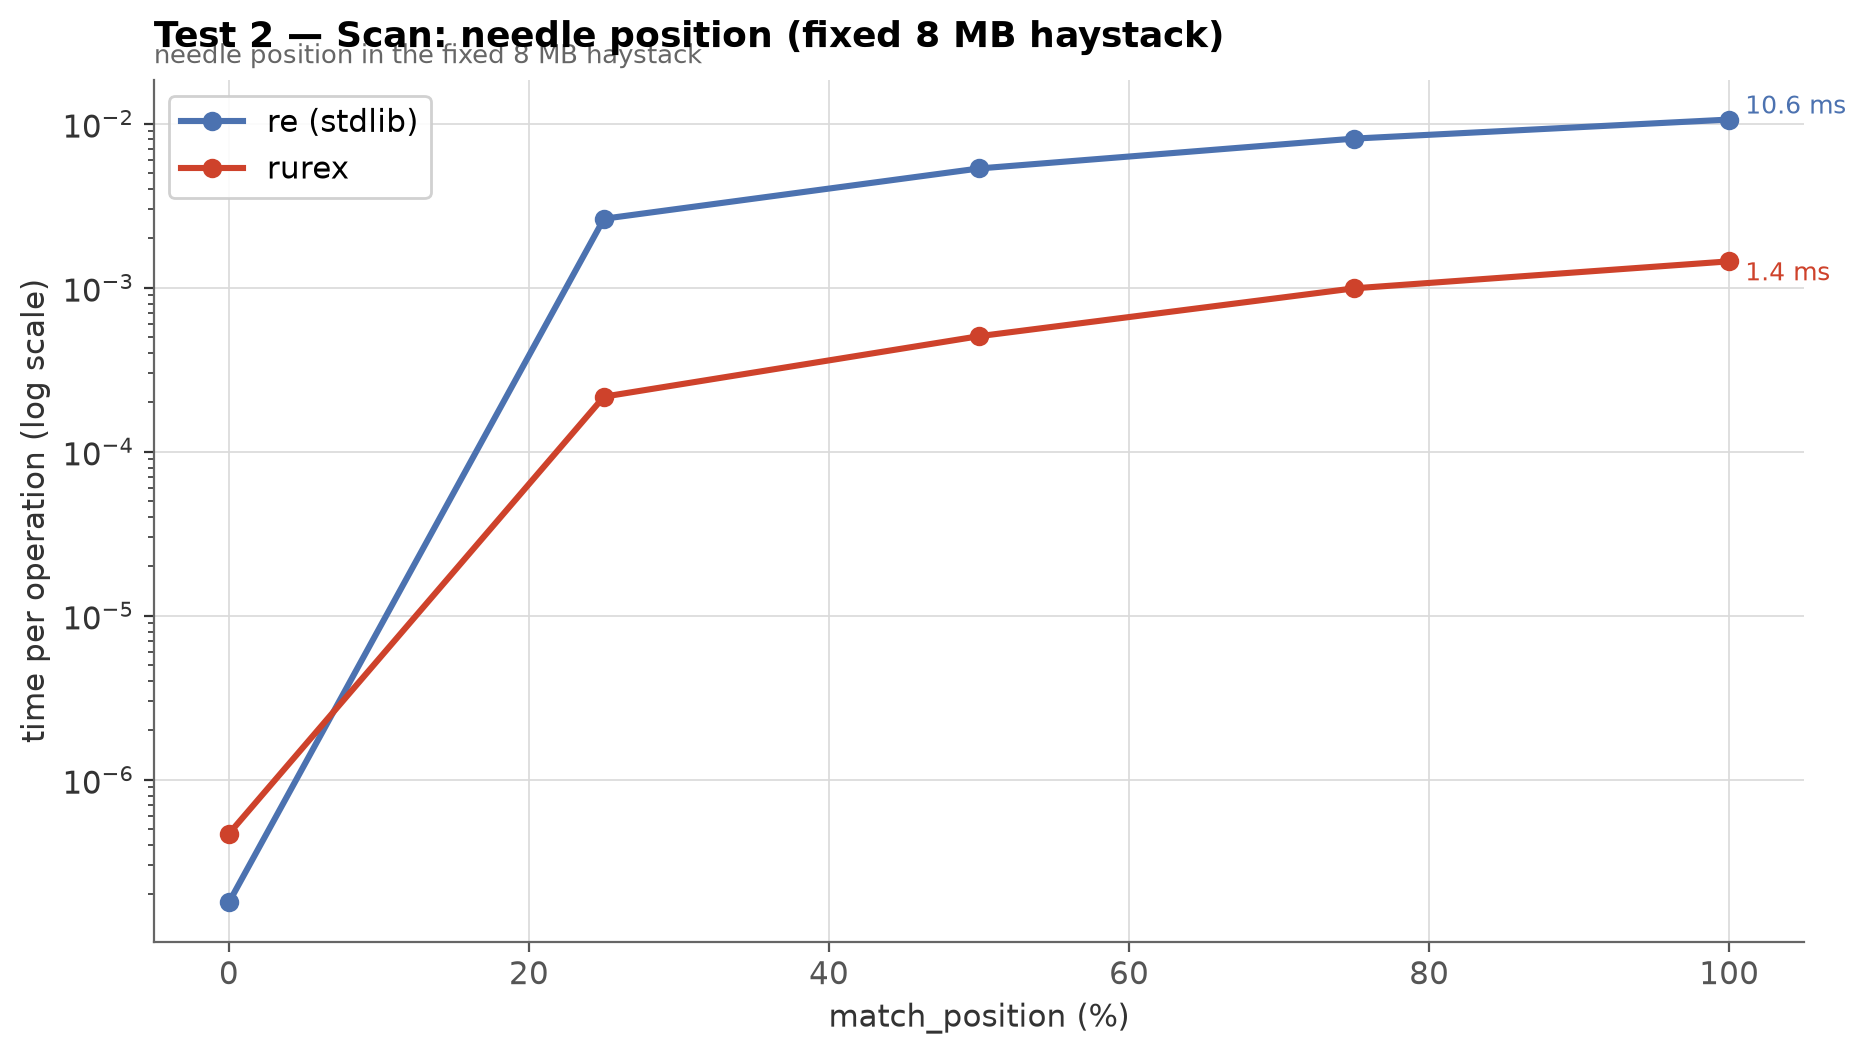
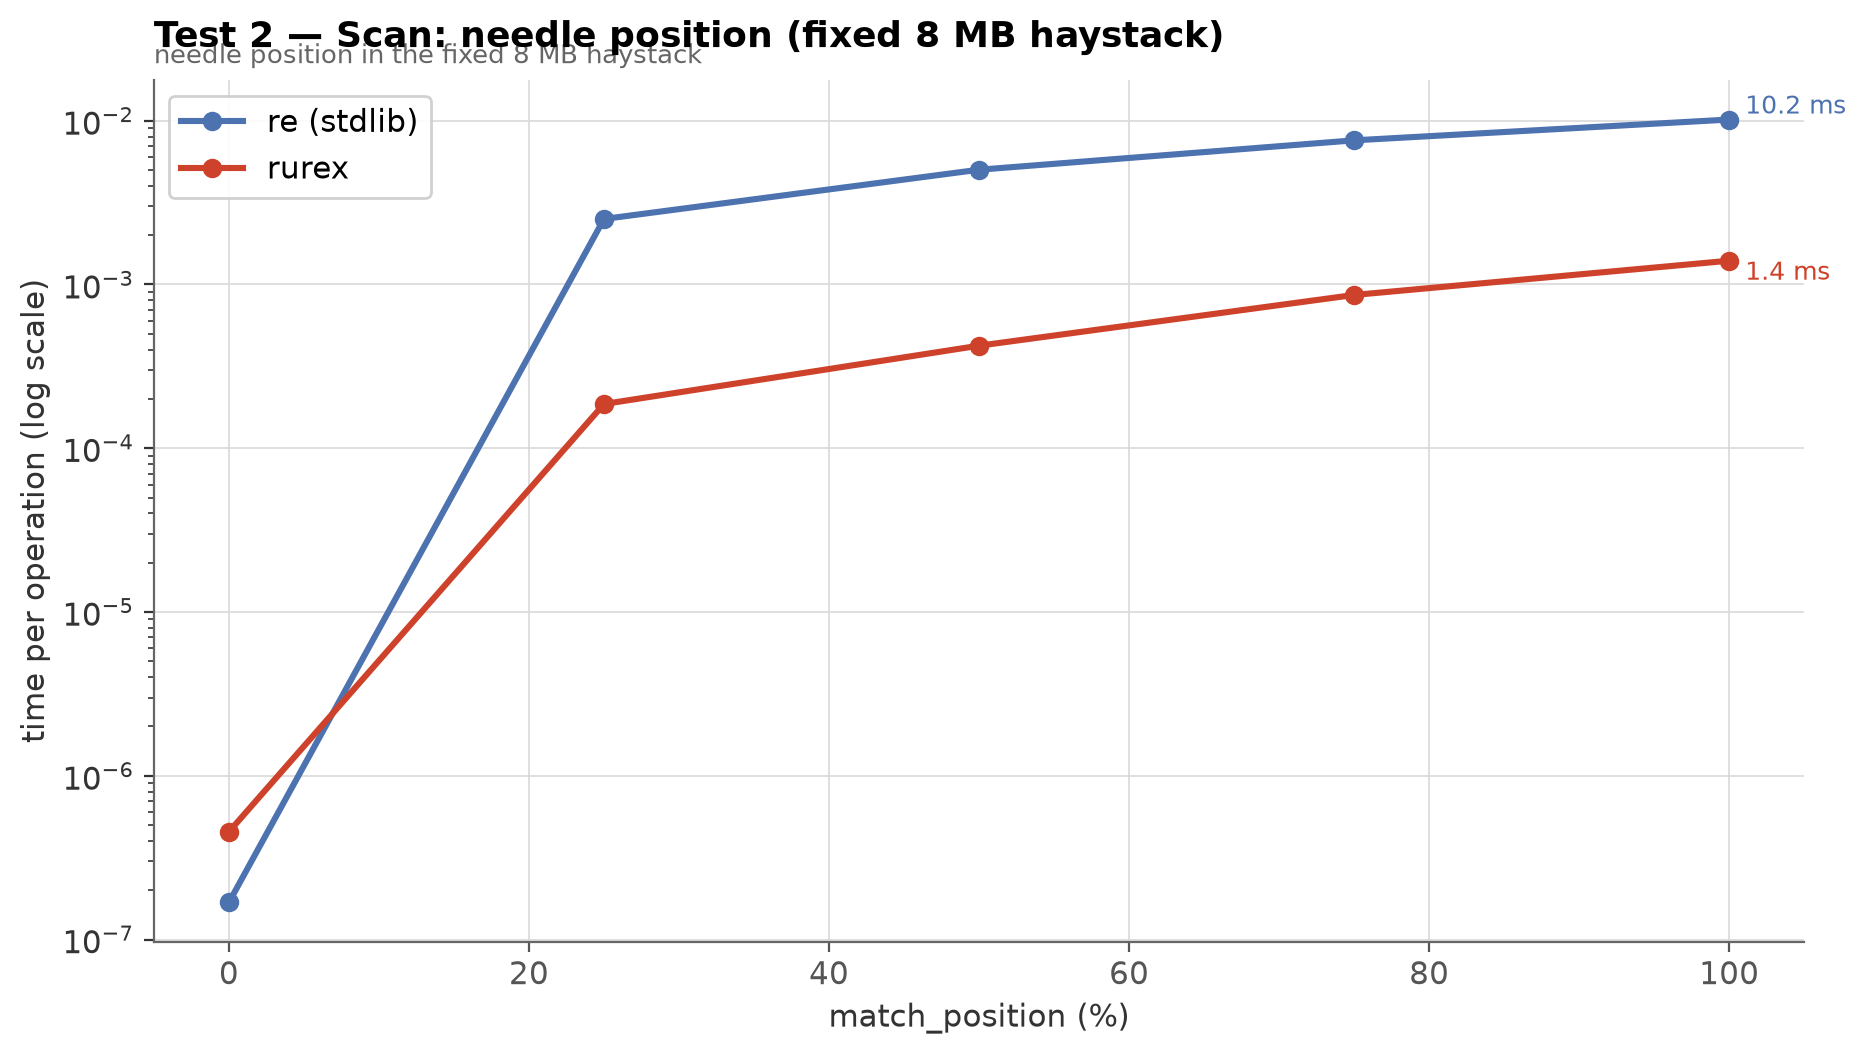
Re-measure benchmarks after the buffer-protocol work
extract_hay was restructured around HayKeep (an extra refcount per
call on the str path); measured effect: none — every test holds or
improves within session noise. Test 1 up to x13.4, Test 2 needle@0
455 ns vs re 168 ns and x7.3-13.5 elsewhere, Tests 3/4 x1.40-1.43
and exact parity at the densest point, Test 5 flat ~250 ns.

diff --git a/docs/benchmarks.md b/docs/benchmarks.md
@@ -11,15 +11,15 @@ per operation** on Y.
   and both engines scale linearly.
 - **Test 2 — Scan vs needle position:** with the needle in the very
   first bytes both engines answer in well under a microsecond (`re`
-  179 ns, rurex 468 ns); from a quarter of the text onward rurex is
-  ×7.3–12.2 faster.
+  168 ns, rurex 455 ns); from a quarter of the text onward rurex is
+  ×7.3–13.5 faster.
 - **Test 3 — Extraction vs haystack size:** rurex ahead ~×1.4 at
   match-dense fixed density.
 - **Test 4 — Extraction vs match density:** rurex ahead at every
-  measured density — ×6.8 when matches are sparse, narrowing to
-  parity (×1.04) at the densest.
+  measured density — ×6.2 when matches are sparse, narrowing to
+  parity (×1.00) at the densest.
 - **Test 5 — Pathological:** `re` never finishes; rurex answers in
-  **~270 ns** at any size.
+  **~250 ns** at any size.
 
 A standalone HTML twin of this page (images embedded) can be rendered
 locally for browser viewing: `python benchmarks/make_charts.py --html`
@@ -84,11 +84,11 @@ amet node lazy fox alpha the the-needle-string …
 
 | Size | `re` | rurex | Speedup |
 |---:|---:|---:|---:|
-| 64 KB | 83 µs | 6.2 µs | rurex ×13.3 |
-| 256 KB | 329 µs | 25 µs | rurex ×13.2 |
-| 1 MB | 1.35 ms | 103 µs | rurex ×13.2 |
-| 4 MB | 5.47 ms | 523 µs | rurex ×10.5 |
-| 16 MB | 21.3 ms | 3.19 ms | rurex ×6.7 |
+| 64 KB | 78 µs | 6.0 µs | rurex ×13.0 |
+| 256 KB | 312 µs | 23 µs | rurex ×13.4 |
+| 1 MB | 1.24 ms | 93 µs | rurex ×13.4 |
+| 4 MB | 5.00 ms | 407 µs | rurex ×12.3 |
+| 16 MB | 20.5 ms | 3.12 ms | rurex ×6.6 |
 
 Both engines scale linearly; rurex' constant is several times smaller.
 The advantage narrows at 16 MB as scanning becomes memory-bound — the
@@ -120,16 +120,16 @@ from the first bytes (0%) to the very end (100%). Position 0% favors
 
 | Needle at | `re` | rurex | Speedup |
 |---:|---:|---:|---:|
-| 0% | 179 ns | 468 ns | `re` ×2.6 |
-| 25% | 2.63 ms | 216 µs | rurex ×12.2 |
-| 50% | 5.33 ms | 506 µs | rurex ×10.5 |
-| 75% | 8.10 ms | 990 µs | rurex ×8.2 |
-| 100% | 10.6 ms | 1.45 ms | rurex ×7.3 |
+| 0% | 168 ns | 455 ns | `re` ×2.7 |
+| 25% | 2.51 ms | 186 µs | rurex ×13.5 |
+| 50% | 5.02 ms | 423 µs | rurex ×11.9 |
+| 75% | 7.59 ms | 863 µs | rurex ×8.8 |
+| 100% | 10.2 ms | 1.40 ms | rurex ×7.3 |
 
 The closest point of the race is a needle in the very first bytes:
 `re`'s fast path answers in 170 ns and rurex in 436 ns — both well
 under a microsecond, both invisible to any real workload. Past the
-first quarter of the text, rurex' scan speed dominates by ×7.3–12.2.
+first quarter of the text, rurex' scan speed dominates by ×7.3–13.5.
 (An earlier build showed a ~0.7 ms floor here — every `search` call
 was counting the characters of the whole haystack to fill
 `Match.endpos` even when the match sat in the first bytes; `endpos` is
@@ -161,10 +161,10 @@ alpha word value value node al …
 
 | Size | `re` | rurex | Speedup |
 |---:|---:|---:|---:|
-| 64 KB | 1.57 ms | 1.16 ms | rurex ×1.36 |
-| 256 KB | 6.57 ms | 4.49 ms | rurex ×1.46 |
-| 1 MB | 29.5 ms | 20.6 ms | rurex ×1.43 |
-| 4 MB | 117.7 ms | 80.3 ms | rurex ×1.47 |
+| 64 KB | 1.41 ms | 1.00 ms | rurex ×1.41 |
+| 256 KB | 5.90 ms | 4.13 ms | rurex ×1.43 |
+| 1 MB | 25.8 ms | 18.3 ms | rurex ×1.41 |
+| 4 MB | 105.9 ms | 75.8 ms | rurex ×1.40 |
 
 At this density rurex is steadily ~×1.4 ahead: `findall` builds only
 the returned values (strings, or one string per group) in one pass —
@@ -195,15 +195,15 @@ r"\d{3,4}"
 
 | Density | `re` | rurex | Speedup |
 |---:|---:|---:|---:|
-| 5 /KB | 19.4 ms | 2.84 ms | rurex ×6.8 |
-| 20 /KB | 19.8 ms | 5.88 ms | rurex ×3.4 |
-| 80 /KB | 28.8 ms | 21.1 ms | rurex ×1.4 |
-| 160 /KB | 38.0 ms | 36.5 ms | rurex ×1.04 |
+| 5 /KB | 16.8 ms | 2.70 ms | rurex ×6.2 |
+| 20 /KB | 18.2 ms | 5.41 ms | rurex ×3.4 |
+| 80 /KB | 25.0 ms | 18.2 ms | rurex ×1.4 |
+| 160 /KB | 34.1 ms | 33.9 ms | rurex ×1.00 |
 
-With sparse matches, scanning dominates and rurex is up to 6.8×
+With sparse matches, scanning dominates and rurex is up to 6.2×
 faster; as matches multiply, the per-match cost of building the
 returned values takes over and `re` closes the gap — at the densest
-measured point the two engines are effectively even (×1.04).
+measured point the two engines are effectively even (×1.00).
 
 ---
 
@@ -233,13 +233,13 @@ xxxxxxxxxxxxxxxxxxxxxxxx    (n = 24 of the sweep; no y — nothing matches)
 
 | n | `re` | rurex |
 |---:|---:|---:|
-| 8 | 30.6 µs | 263 ns |
-| 12 | 262 µs | 265 ns |
-| 16 | 4.22 ms | 272 ns |
-| 20 | 64.5 ms | 267 ns |
-| 24 | 1.06 s | 288 ns |
-| 26 | *≥ 2 s — still running at the timeout* | 287 ns |
-| 28 | — | 285 ns |
+| 8 | 21.9 µs | 233 ns |
+| 12 | 248 µs | 234 ns |
+| 16 | 3.64 ms | 236 ns |
+| 20 | 61.9 ms | 242 ns |
+| 24 | 982 ms | 250 ns |
+| 26 | *≥ 2 s — still running at the timeout* | 250 ns |
+| 28 | — | 252 ns |
 
 Extrapolating `re`'s doubling curve, n=40 would take longer than the
 age of the universe. rurex answers every input in well under half of a
